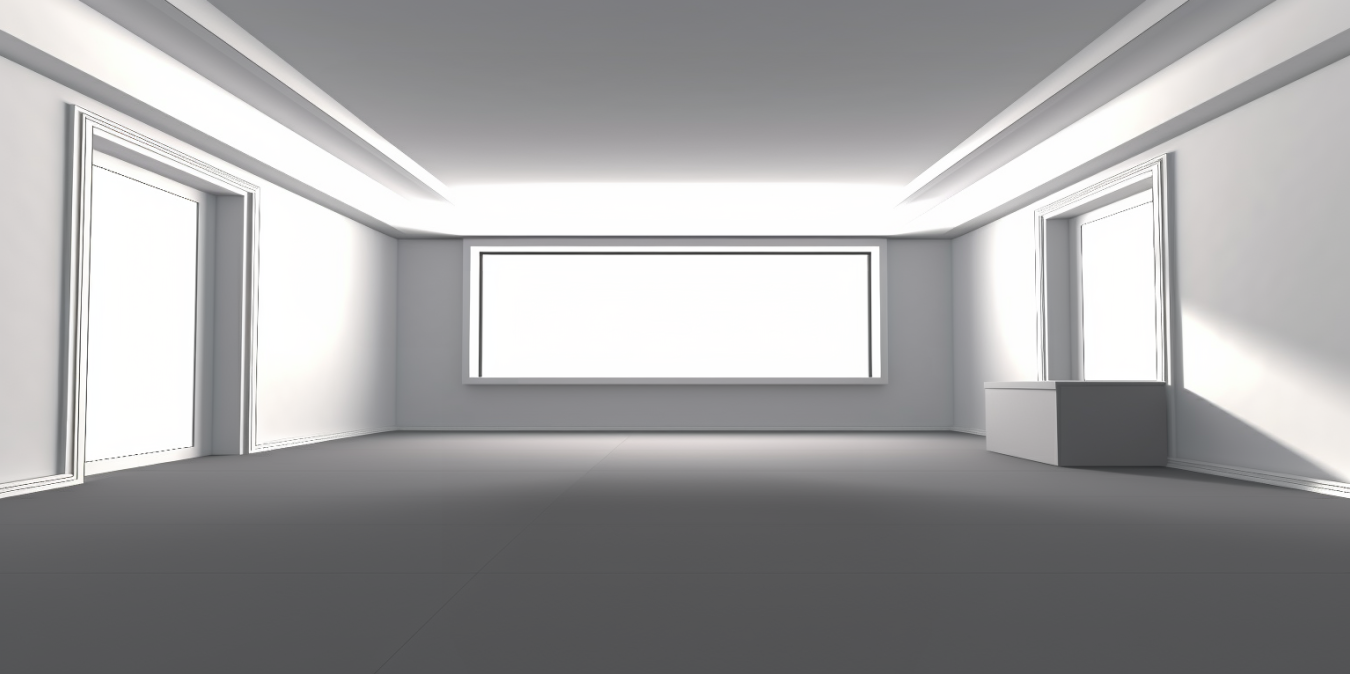
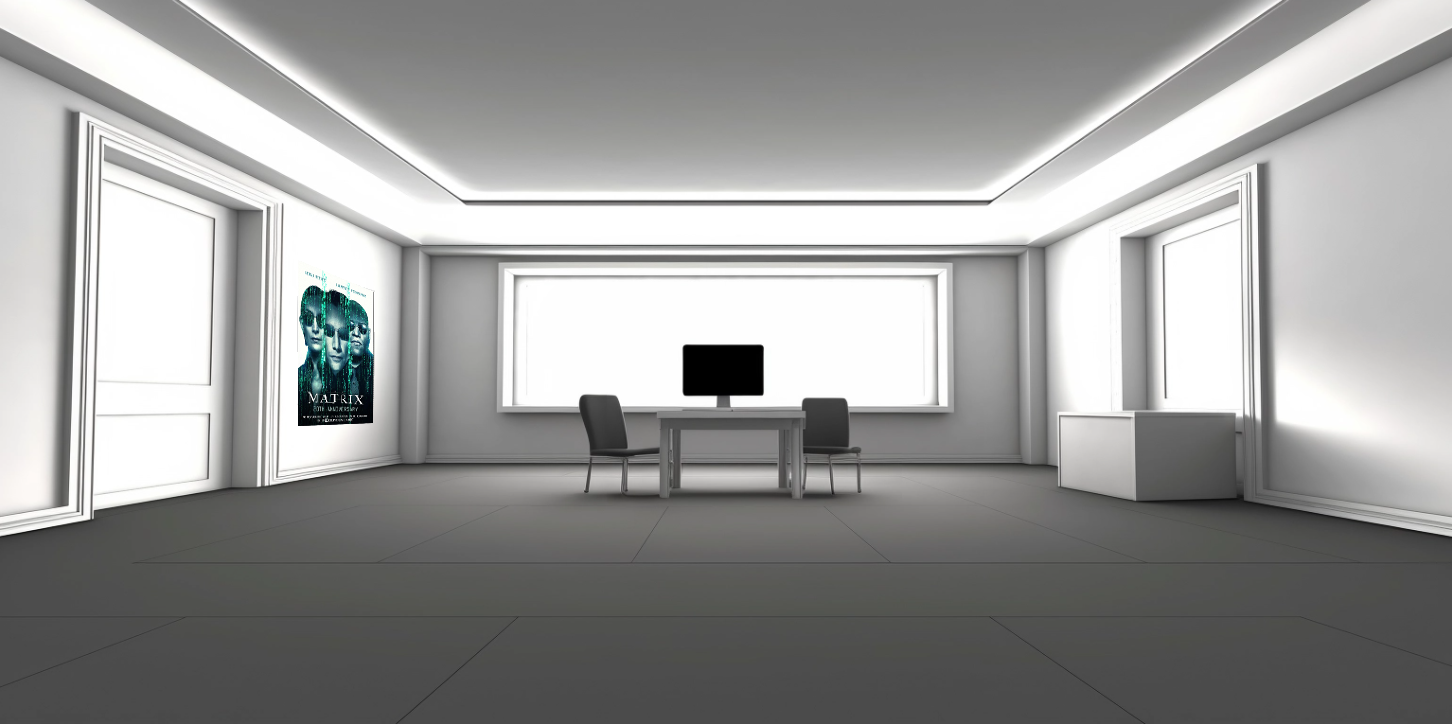
Added room 13, fixed some bugs with doors unlocking by other players

diff --git a/templates/register.html b/templates/register.html
@@ -12,10 +12,10 @@ Register
         <div class="grid-item topright hide"></div>
         <div class="grid-item healthbar hide">4</div>
         <div class="grid-item main">
-            <p><input id="name" type="text" name="name" placeholder="name"></p>
-            <p><input id="email" type="email" name="email" placeholder="email"></p>
-            <p><input id="username" type="text" name="username" placeholder="Username"></p>
-            <p><input id="password" type="password" name="password" placeholder="Password"></p>
+            <p><input id="name" type="text" name="name" placeholder="name" required></p>
+            <p><input id="email" type="email" name="email" placeholder="email"required></p>
+            <p><input id="username" type="text" name="username" placeholder="Username"required></p>
+            <p><input id="password" type="password" name="password" placeholder="Password"required></p>
 
             <p><button id="submit" type="submit" class="btn">▶ Submit</button></p>
         </div>

diff --git a/process.py b/process.py
@@ -14,11 +14,14 @@ def process(inp, inventory, room_data, rooms, level, objects):
     inp = inp.replace(' a ', ' ')
     inp = inp.replace(' an ', ' ')
 
+    door_status = session['door_status']
+
     if room_data.type == "end":
         return "This is the last level for now. More levels will be added soon. Thanks for playing !"
 
     if inp == "exit room" or inp == "exit" or inp == "leave room" or inp == "leave" or inp == "open door":
-        if room_data.door_locked:
+        
+        if door_status == "locked":
             return "The door is locked"
         else:
             return "You exit the room"
@@ -26,8 +29,11 @@ def process(inp, inventory, room_data, rooms, level, objects):
     elif rooms[level].type ==  "computer":
         right_answer = rooms[level].expected_output
         if inp == right_answer:
-            rooms[level].door_locked = False
+            session["door_status"] = "unlocked"
             return "You hear a clicking sound. The door unlocks."
+        elif "close" in inp or "stop" in inp:
+            rooms[level].type = "code"
+            return "You close the computer"
         else:
             return "That's not the right answer"
 
@@ -43,14 +49,16 @@ def process(inp, inventory, room_data, rooms, level, objects):
         return "Try things like: 'look around', 'look at table', 'unlock door', 'exit room'"
     
     elif inp == "look around" or inp == "look room":
+
         things = room_data.furniture.split(",")
+        print(f"--->  things: {things}")
         if len(things) == 1:
             return f"You look around and you see a {things[0]}"
         else:
-            temp = f"You look around and you see a {things[0]} "
+            temp = f"You look around and you see a {things[0]}"
             things.pop(0)
             for i in things:
-                temp += f"and a {i} "
+                temp += f", a {i}"
         return temp
     
     elif "look" in inp:
@@ -58,29 +66,31 @@ def process(inp, inventory, room_data, rooms, level, objects):
             thing = inp.split("at ")[1]
             thing = thing.replace(' ', '')
             if thing in room_data.furniture:
-                if room_data.objects[thing] != "":
-                    detail = room_data.objects[thing]
+                if objects[thing] != "":
+                    detail = objects[thing]
                     detail = detail.replace('<', '')
                     detail = detail.replace('>', '')
                     return f"You look at the {thing} and you see a {detail}"
                 else:
                     return f"You look at the {thing} and you see nothing special"
-            elif thing in room_data.objects.values() or "<" + thing + ">" in room_data.objects.values():
+            elif thing in objects.values() or "<" + thing + ">" in objects.values():
                     return f"You look at the {thing} and you see nothing special"
             else:
                 return f"You don't see a {thing} in the room"
             
-    elif "take" in inp:
-        thing = inp.split("take ")[1]
+    elif "take" in inp or "get" in inp:
+        if "take" in inp:
+            thing = inp.split("take ")[1]
+        else:
+            thing = inp.split("get ")[1]
         thing = thing.replace(' ', '')
-        print("--> Inside process.py: ", thing, f"room_data.objects.values(): {room_data.objects.values()}")
-        if thing in room_data.objects.values() or "<" + thing + ">" in room_data.objects.values():
-            if "<" + thing + ">" in room_data.objects.values():
+        if thing in objects.values() or "<" + thing + ">" in objects.values():
+            if "<" + thing + ">" in objects.values():
                 return f"You can't take the {thing}"
             else:
-                for key, value in room_data.objects.items():
+                for key, value in objects.items():
                     if value == thing:
-                        username, score, level, inventory, objects = get()
+                        username, score, level, inventory, objects, door_status = get()
                         inventory.append(thing)
                         objects[key] = ""
                         store(username, score, level, inventory, objects)
@@ -88,35 +98,16 @@ def process(inp, inventory, room_data, rooms, level, objects):
             
         else:
             return f"You don't see a {thing} in the room"
-        
-    elif "get" in inp:
-        thing = inp.split("get ")[1]
-        thing = thing.replace(' ', '')
-        #print("User command: ", inp)
-        #print("Thing: ", thing)
-        #print("room_data.objects: ", room_data.objects)
-        if thing in room_data.objects.values() or "<" + thing + ">" in room_data.objects.values():
-            if "<" + thing + ">" in room_data.objects.values():
-                return f"You can't take the {thing}"
-            else:
-                thing = thing.replace('<', '')
-                thing = thing.replace('>', '')
-                for key, value in room_data.objects.items():
-                    if value == thing:
-                        inventory.append(thing)
-                        room_data.objects[key] = ""
-                        return f"You take the {thing}"
-           
-        else:
-            return f"You don't see a {thing} in the room"
+
     
     elif "unlock" in inp:
         if room_data.type == "inventory":
             thing = inp.split("unlock ")[1]
+            thing = thing.split(" ")[0]
             thing = thing.replace(' ', '')
             if thing == "door":
                 if "key" in inventory:
-                    room_data.door_locked = False
+                    session['door_status'] = "unlocked"
                     return f"You unlock the door"
                 else:
                     return f"You don't have a key"
@@ -129,7 +120,7 @@ def process(inp, inventory, room_data, rooms, level, objects):
     if "walk" in inp or "run" in inp or "jump "in inp:
         return "Ah.. that felt good !"
 
-    if level == 13:
+    if level == 14:
         if 'listen' in inp and 'door' in inp:
             return "You hear a faint noise of a person breathing behind the door"
         if 'listen' in inp:
@@ -142,7 +133,7 @@ def process(inp, inventory, room_data, rooms, level, objects):
         if 'push' in inp:
             if 'key' in inp:
                 if 'key' in inventory:
-                    rooms[level].door_locked = False
+                    session["door_status"] = "unlocked"
                     inventory.remove('key')
                     update_user(username, inventory, level, score)
                     store(username, score, level, inventory, objects)

diff --git a/database.py b/database.py
@@ -52,8 +52,9 @@ def get():
     level = session['level']
     inventory = session['inventory']
     objects = session['objects']
+    door_status = session['door_status']
 
-    return username, score, level, inventory, objects
+    return username, score, level, inventory, objects, door_status
 
 def store(username, score, level, inventory, objects):
     #store in Session
@@ -76,7 +77,7 @@ class Room:
         self.expected_output = expected_output
 
 def init_rooms():
-    rooms = [1,1,1,1,1,1,1,1,1,1,1,1,1,1,1]
+    rooms = [1,1,1,1,1,1,1,1,1,1,1,1,1,1,1,1]
     #level 1
     rooms[0] = Room()
     rooms[1] = Room(1, 
@@ -169,10 +170,10 @@ def init_rooms():
                         "9999")
     
     rooms[11] = Room(11,
-                        "Do you like binge-watching? I'm at season2, episode 4.",
+                        "Do you like binge-watching? I'm at season 2, episode 4. Check out the poster !",
                         "code",
                         True,
-                        "table,chair,door,cabinet" ,
+                        "table,chair,door,cabinet,poster" ,
                         {"table":"computer", "door":"<doorlock>", "cabinet":"","poster":"<picture of 'The OA'>"},
                         "",
                         "yyy")
@@ -181,13 +182,22 @@ def init_rooms():
                         "Life is beautiful",
                         "code",
                         True,
-                        "table,chair,door,cabinet" ,
+                        "table,chair,door,cabinet,poster" ,
                         {"table":"computer", "door":"<doorlock>", "cabinet":"","poster":"<picture of 'La Vita e Bella'>"},
                         "",
                         "silence")
     
-
     rooms[13] = Room(13,
+                        "The choice is yours.... ",
+                        "code",
+                        True,
+                        "table,chair,door,cabinet,poster" ,
+                        {"table":"computer", "door":"<doorlock>", "cabinet":"","poster":"<picture of 'the Matrix'>"},
+                        "",
+                        "red pill")
+
+
+    rooms[14] = Room(14,
                         "You are in.. yet another room... you hear a noise...",
                         "person",
                         True,
@@ -197,7 +207,7 @@ def init_rooms():
                         "----")
 
 
-    rooms[14] = Room(14,
+    rooms[15] = Room(14,
                         "This is the last level for now.",
                         "last",
                         True,

diff --git a/flask_app.py b/flask_app.py
@@ -22,7 +22,7 @@ def home():
     if 'user' not in session:
             return redirect(url_for('login'))
     
-    username, score, level, inventory, objects = get()
+    username, score, level, inventory, objects, door_status = get()
    
     print("=== in home route ===")
     print()
@@ -67,6 +67,7 @@ def next_level():
     inventory = session['inventory']
     score = session['score']
     objects = session['objects']
+    session['door_status'] = "locked"
 
     print("=== in next_level route ===")
     print()
@@ -79,6 +80,7 @@ def next_level():
     if request.method == 'POST':
         level = level + 1
         score += 100
+        objects = rooms[level].objects
         store(username, score, level, inventory, objects)
         update_user(username, inventory, level, score)
         print('Redirecting to home')
@@ -138,6 +140,7 @@ def login():
             session['score'] = score
             session['inventory'] = inventory
             session['objects'] = rooms[level].objects
+            session['door_status'] = "locked"
 
             return redirect(url_for('home'))
         else:
